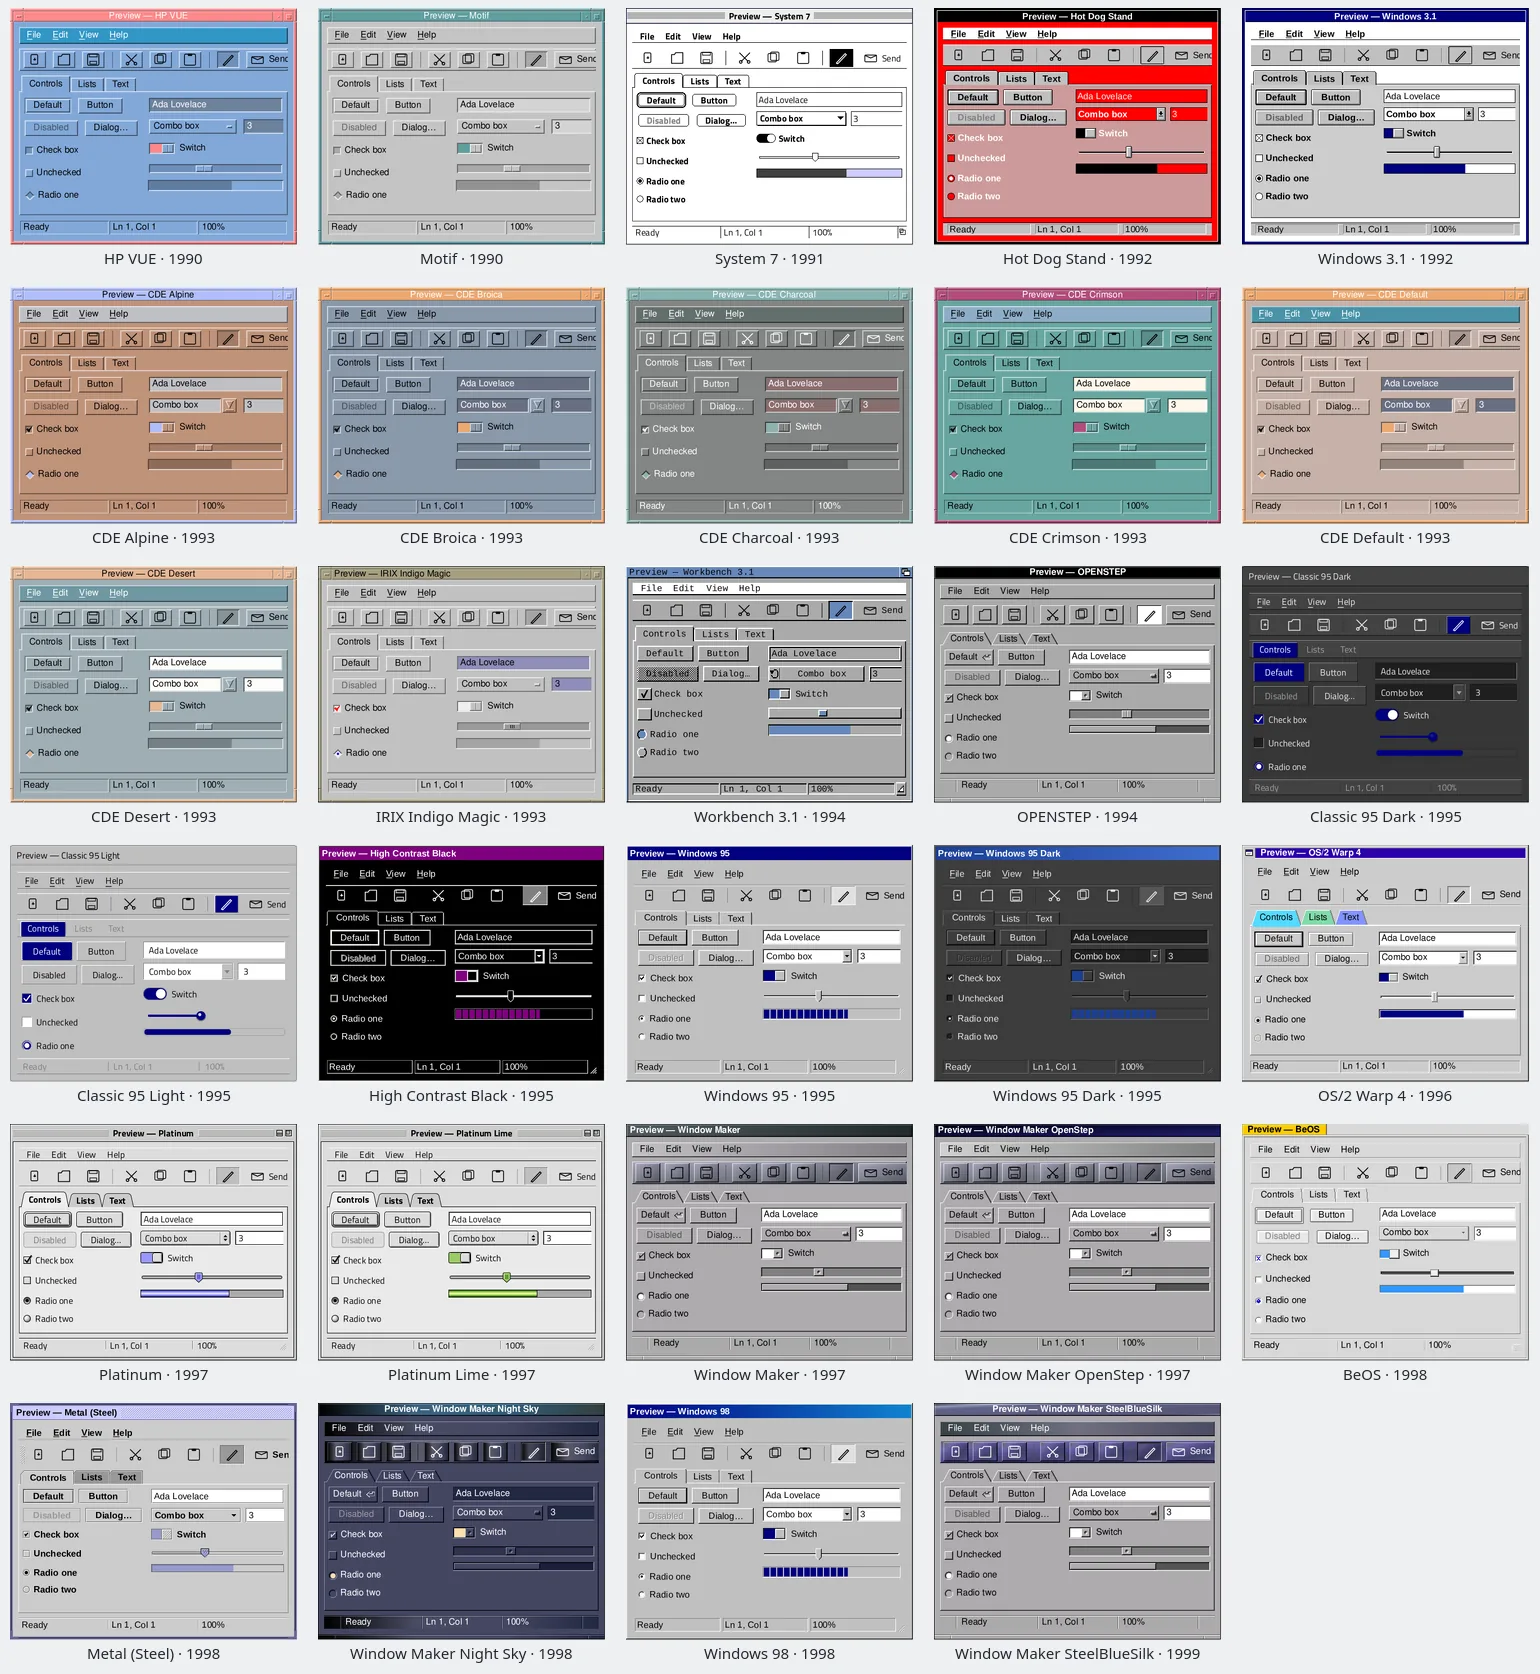
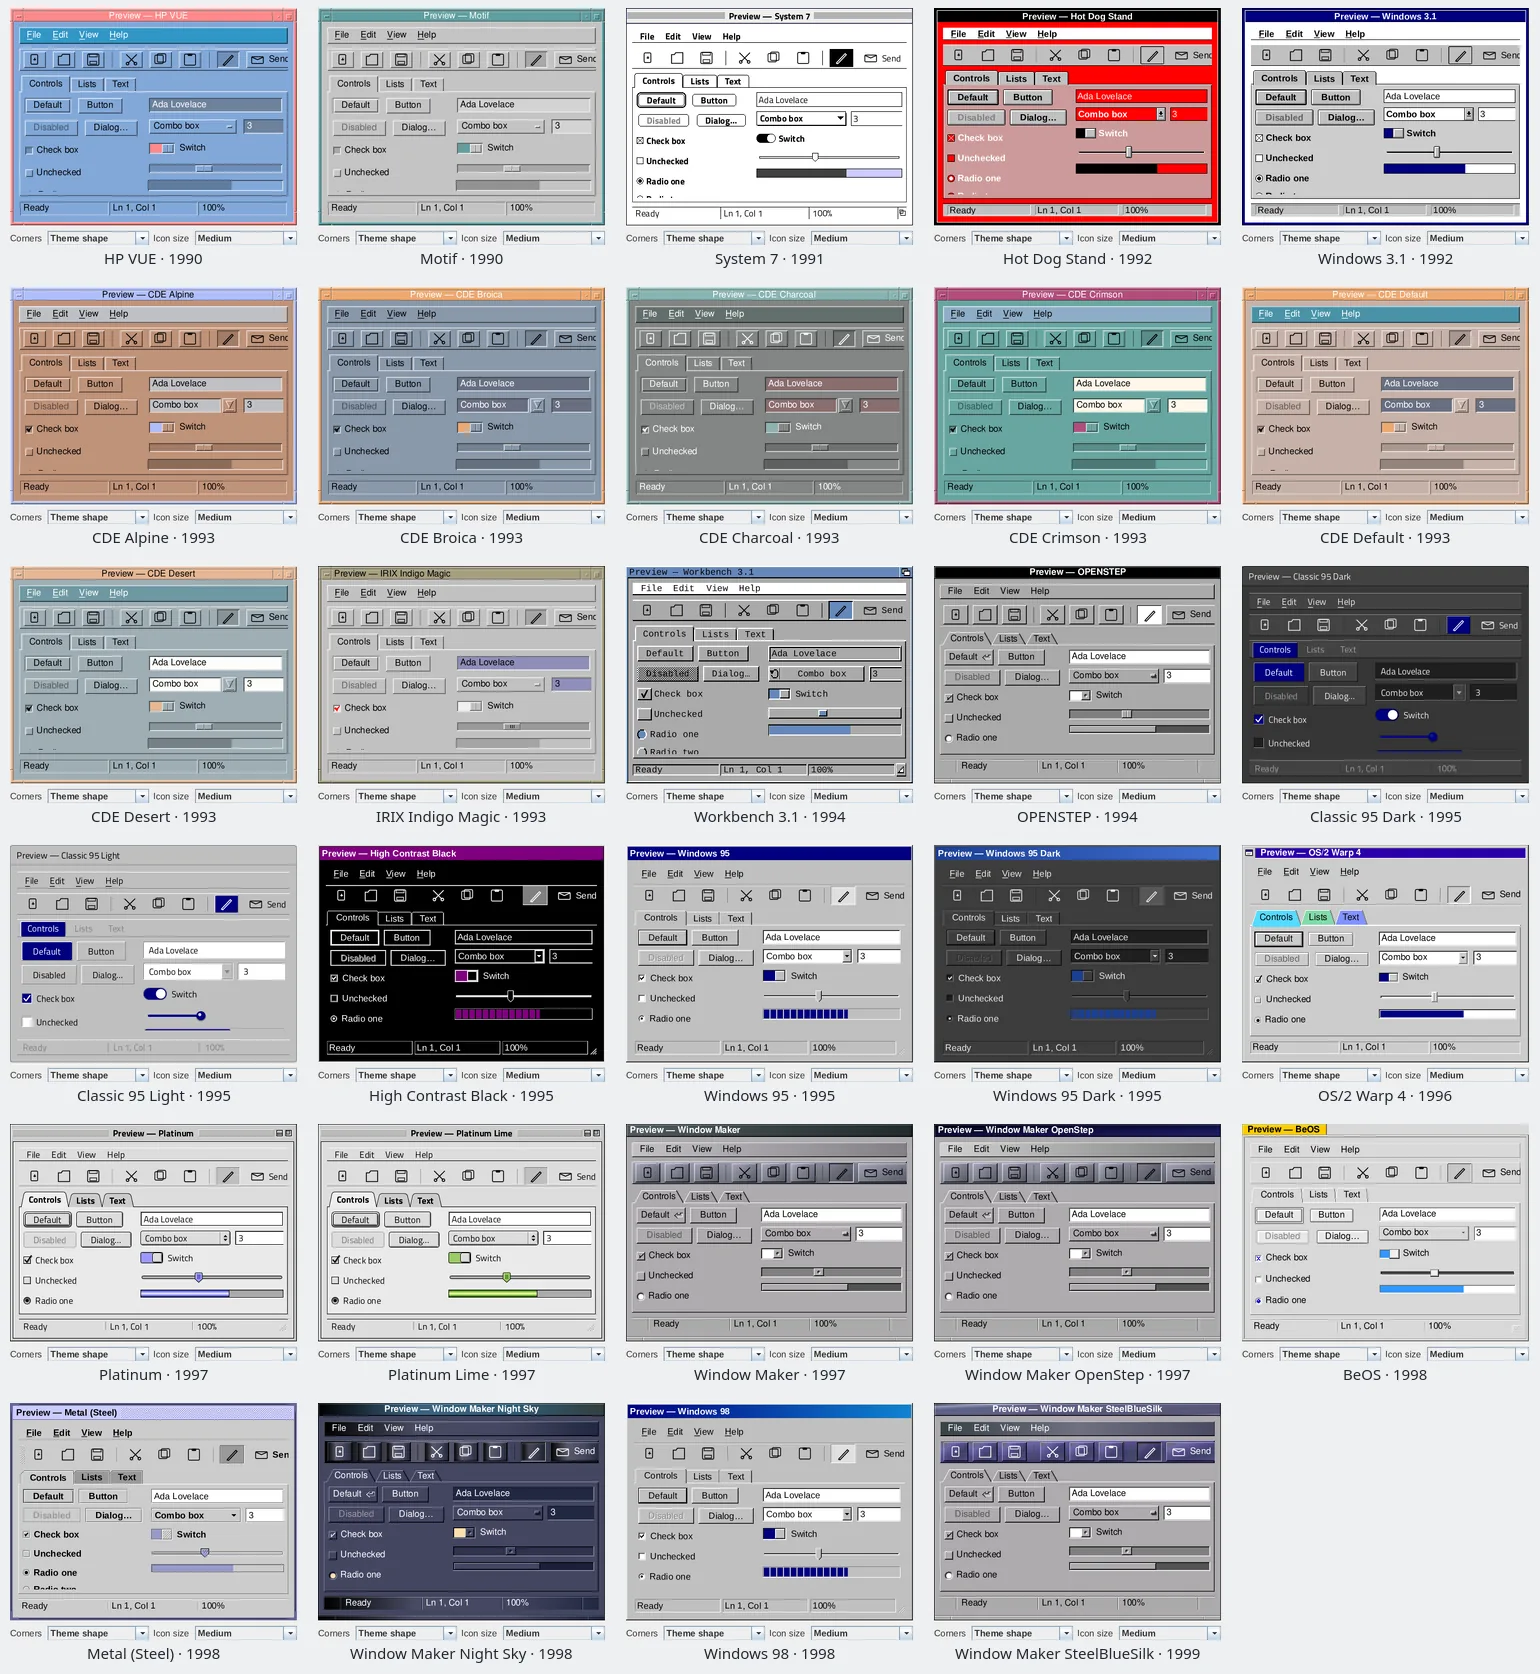
docs(readme): the sheets and the timeline at 121 packs
The decade sheets and the web sheet are redrawn with the 18 new packs,
and the timeline gains lanes for Solarized, Gruvbox, Atom's One,
JetBrains and VS Code. RESUME.md records the title bars, the new packs
and what is next.

diff --git a/RESUME.md b/RESUME.md
@@ -31,6 +31,8 @@ Also merged to `dev` and pushed:
 | `468d557` | `feat/csd` | windows that draw their own title bar and borders (phase 1) |
 | `04d0746` | `engine/web` | the `web` engine: 25 packs of today's web and app looks |
 | `ff2cc6b` | `docs/themes-web` | the Settings preview no longer jumps; README sheets and timeline |
+| `6dbe277` | `feat/titlebar` | tabs in the title bar, and a title bar in every look (phase 2) |
+| `476dc19` | `engine/modern` | 18 more packs of today's looks; 121 in all |
 
 - **Today's themes.** The 29th engine, `web`, draws the looks developers
   use now: GitHub's Primer (light, dark, dark dimmed), Vercel's Geist,
@@ -45,13 +47,29 @@ Also merged to `dev` and pushed:
   system title bar and borders"; `UITK_DECORATIONS` and look.json's
   `"decorations"` choose too. GNOME, which has no server frames, now gets a
   frame. How it works: `docs/decorations.md`.
-- **Next, not started:**
-  - title-bar phases 2 to 4 (`docs/decorations.md`): frames drawn by each
-    engine; then shadows, rounded corners and resize handles in the shadow;
-    then browser-style tabs in the title bar with tear-off, as SourceGit and
-    Chromium have;
-  - more of today's packs: macOS Tahoe, Breeze 6, Material 3 Expressive,
-    JetBrains' Islands, VS Code's 2026 themes, Adwaita 48.
+- **Tabs in the title bar, and a title bar in every look** (phase 2).
+  `widgets.BrowserTabs` is a Chromium-style document-tab strip that sits in
+  a header bar (Files has folder tabs); `style.DecorationEngine` lets an
+  engine paint its era's frame, and every other pack gets its in-app window
+  caption adapted, so all 121 have one: 70 native, 31 adapted, 2 plain.
+  Settings: "Place window buttons as the theme does" (look.json
+  `captionButtons`).
+- **18 more packs of today's looks** (`engine/modern`): macOS Tahoe's Liquid
+  Glass, Plasma 6's Breeze, GNOME 48's Adwaita, Material 3 Expressive, VS
+  Code's 2026 themes, JetBrains Islands, and the Gruvbox, Solarized and Atom
+  One palettes. Platform engines can now hand a later era to an engine of
+  their own (`style.EraEngine`), and tool bars can share group chrome
+  (`style.ToolGroupEngine`, Tahoe's glass capsules). 121 packs, 29 engines.
+- **Next:**
+  - shadows, rounded corners and resize handles in the shadow (phase 3),
+    under way on `feat/frame-shadows`;
+  - then: tab tear-off (phase 4), drag and drop on X11 and dragging out of
+    apps, dockable panels;
+  - the 31 adapted looks could get frames of their own (NeXT, Platinum,
+    System 7, Amiga, BeOS, OS/2, Windows 3.1, KDE 3 and GNOME 2).
+- **Off the list** (the user's call, 2026-09-15): releases and tags; IME and
+  right-to-left text; Windows and macOS backends (pinned until Linux is
+  polished); printing.
 
 ## Decisions (answered 2026-09-15)
 
@@ -157,7 +175,7 @@ Also merged: `macos` (OS X Yosemite, macOS Big Sur and Big Sur Dark),
 whose tonal palettes are computed from a seed colour) and `flatlaf` (FlatLaf
 Light, FlatLaf Dark, Darcula).
 
-103 packs from 29 engines in all, with `web` (above). Every agent branch is merged, the last
+121 packs from 29 engines in all, with `web` and the later eras (above). Every agent branch is merged, the last
 being sidebar styles and tool-bar buttons for macOS, Adwaita, Fluent and
 Material (`engine/sidebar`).
 

diff --git a/README.md b/README.md
@@ -116,11 +116,10 @@ drawn by its pack's engine.
 
 ### 2020s
 
-![libadwaita, macOS Big Sur, Material 3 and Fluent, light and dark](docs/screenshots/themes/themes-2020s.webp)
+The platforms' latest eras are here too: KDE Plasma 6's Breeze, GNOME 48's
+Adwaita, macOS 26 Tahoe's Liquid Glass and Material 3 Expressive.
 
-The platforms' latest eras join them: KDE Plasma 6's Breeze, GNOME 48's
-Adwaita, macOS 26 Tahoe's Liquid Glass and Material 3 Expressive, each
-light and dark.
+![libadwaita and GNOME 48's Adwaita, macOS Big Sur and Tahoe, Material 3 and Material 3 Expressive, Fluent, Plasma 6's Breeze, light and dark](docs/screenshots/themes/themes-2020s.webp)
 
 ### The web and its apps
 
@@ -130,7 +129,7 @@ Code's 2026 themes and JetBrains' Islands, the editor palettes Dracula,
 Nord, Tokyo Night, Catppuccin, Rosé Pine, Gruvbox, Solarized and Atom's
 One, and SourceGit's own theme.
 
-![Dracula, Nord, Tokyo Night, Catppuccin, Rosé Pine, GitHub Primer, Vercel Geist, SourceGit, shadcn/ui and Linear, light and dark](docs/screenshots/themes/themes-web.webp)
+![Solarized, Gruvbox, Dracula, Atom One, Nord, Tokyo Night, Catppuccin, Rosé Pine, GitHub Primer, Vercel Geist, SourceGit, shadcn/ui, JetBrains Islands, Linear and VS Code 2026, light and dark](docs/screenshots/themes/themes-web.webp)
 
 The full list, with what each pack reproduces, is in
 [docs/themes.md](docs/themes.md). How engines work, and how to write one,
